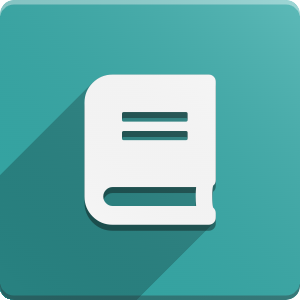
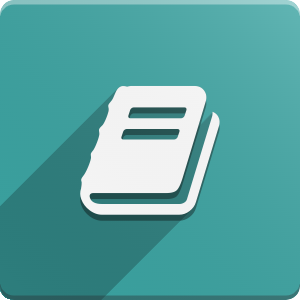
[IMP] knowledge: Improve and fix Home Page
change icon, add archive, last edited, highest_parent - by Fabio
fix moveTo access error
fix create_article access error

Changed region(s): [[0.0, 0.24, 0.75, 0.99]]

diff --git a/addons/knowledge/static/src/js/knowledge_controller.js b/addons/knowledge/static/src/js/knowledge_controller.js
@@ -9,7 +9,6 @@ var _t = core._t;
 
 const KnowledgeFormController = FormController.extend({
     events: Object.assign({}, FormController.prototype.events, {
-        'click .btn-delete': '_onDelete',
         'click .btn-duplicate': '_onDuplicate',
         'click .btn-create': '_onCreate',
         'click .btn-move': '_onMove',
@@ -39,10 +38,6 @@ const KnowledgeFormController = FormController.extend({
             return;
         }
         await this._rename(id, e.currentTarget.value);
-    },
-
-    _onDelete: async function () {
-        this._deleteRecords([this.handle]);
     },
 
     /**

diff --git a/addons/knowledge/models/knowledge_article.py b/addons/knowledge/models/knowledge_article.py
@@ -54,6 +54,7 @@ class Article(models.Model):
     _inherit = ['mail.thread', 'mail.activity.mixin']
     _order = "favourite_count, create_date desc"
 
+    active = fields.Boolean(default=True)
     name = fields.Char(string="Title", default="New Article")
     body = fields.Html(string="Article Body")
     icon = fields.Char(string='Article Icon', default='fa-file')
@@ -66,6 +67,8 @@ class Article(models.Model):
     # Set default=0 to avoid false values and messed up sequence order inside same parent
     sequence = fields.Integer(string="Article Sequence", default=0,
                               help="The sequence is computed only among the articles that have the same parent.")
+    main_article_id = fields.Many2one('knowledge.article', string="Subject", compute="_compute_main_article_id",
+                                        search="_search_main_article_id", recursive=True)
 
     # Access rules and members + implied category
     internal_permission = fields.Selection([
@@ -178,6 +181,11 @@ class Article(models.Model):
             else:
                 article.owner_id = False
 
+    @api.depends('parent_id')
+    def _compute_main_article_id(self):
+        for article in self:
+            article.main_article_id = article._get_highest_parent()
+
     def _search_user_has_access(self, operator, value):
         if operator not in ('=', '!=') or not isinstance(value, bool):
             raise ValueError("unsupported search operator")
@@ -275,6 +283,20 @@ class Article(models.Model):
             return [('favourite_user_ids', 'in', [self.env.user.id])]
         else:
             return [('favourite_user_ids', 'not in', [self.env.user.id])]
+
+    def _search_main_article_id(self, operator, value):
+        if isinstance(value, str):
+            value = self.search([('name', operator, value)]).ids
+            if not value:
+                return expression.FALSE_DOMAIN
+            operator = '='  # now we will search for articles that match the retrieved users.
+        elif operator not in ('=', '!='):
+            raise NotImplementedError()
+        articles = self
+        for article in self.search([('id', 'in' if operator == '=' else 'not in', value)]):
+            articles |= article._get_descendants()
+            articles |= article
+        return [('id', 'in', articles.ids)]
 
     @api.model
     def search(self, args, offset=0, limit=None, order=None, count=False):
@@ -406,24 +428,34 @@ class Article(models.Model):
         for article in self:
             article.is_locked = False
 
+    def action_archive(self):
+        return super(Article, self | self._get_descendants()).action_archive()
+
     #####################
     #  Business methods
     #####################
 
     def move_to(self, parent_id=False, before_article_id=False, private=False):
         self.ensure_one()
+        if not self.user_can_write:
+            raise AccessError(_('You are not allowed to move this article.'))
         parent = self.browse(parent_id) if parent_id else False
         if parent_id and not parent:
             raise UserError(_("The parent in which you want to move your article does not exist"))
+        elif parent and not parent.user_can_write:
+            raise AccessError(_('You are not allowed to move this article under this parent.'))
         before_article = self.browse(before_article_id) if before_article_id else False
         if before_article_id and not before_article:
             raise UserError(_("The article before which you want to move your article does not exist"))
+
+        # as base user doesn't have access to members, use sudo to allow access it.
+        article_sudo = self.sudo()
 
         if before_article:
             sequence = before_article.sequence
         else:
             # get max sequence among articles with the same parent
-            sequence = self._get_max_sequence_inside_parent(parent_id)
+            sequence = article_sudo._get_max_sequence_inside_parent(parent_id)
 
         values = {
             'parent_id': parent_id,
@@ -435,7 +467,7 @@ class Article(models.Model):
             values['internal_permission'] = 'none' if private else 'write'
 
         if not parent and private:  # If set private without parent, remove all members except current user.
-            self.article_member_ids.unlink()
+            article_sudo.article_member_ids.unlink()
             values.update({
                 'article_member_ids': [(0, 0, {
                     'partner_id': self.env.user.partner_id.id,
@@ -443,32 +475,34 @@ class Article(models.Model):
                 })]
             })
         elif parent:
-            values.update(self._get_access_values_from_parent(parent))
+            values.update(article_sudo._get_access_values_from_parent(parent))
 
-        self.write(values)
+        article_sudo.sudo().write(values)
 
-        if self.child_ids:
-            self._propagate_access_to_children()
+        if article_sudo.child_ids:
+            article_sudo._propagate_access_to_children()
 
         return True
 
     def article_create(self, title=False, parent_id=False, private=False):
-        Article = self.env['knowledge.article']
-        parent = Article.browse(parent_id) if parent_id else False
+        parent = self.browse(parent_id) if parent_id else False
         if parent_id and not parent:
             raise UserError(_("The parent in which you want to move your article does not exist"))
 
-        if parent and private:
-            if not parent.owner_id == self.env.user:
-                raise UserError(_("Cannot write under a non-owned private article"))
+        if parent:
+            if not parent.user_can_write:
+                raise AccessError(_("Cannot create an article under a parent article you can't write on"))
+            if private and not parent.owner_id == self.env.user:
+                raise AccessError(_("Cannot create an article under a non-owned private article"))
         values = {
             'internal_permission': 'none' if private else 'write',  # you cannot create an article without parent in shared directly.,
             'parent_id': parent_id,
             'sequence': self._get_max_sequence_inside_parent(parent_id)
         }
-        # User cannot write on members, sudo is needed to allow to create a private article.
-        if private and self.env.user.has_group('base.group_user'):
-            Article = Article.sudo()
+        # User cannot write on members, sudo is needed to allow to create a private article or create under a parent user can write on.
+        # for article without parent or not in private, access to members is not required to create an article
+        if (private or parent) and self.env.user.has_group('base.group_user'):
+            self = self.sudo()
         if not parent and private:
             # To be private, the article need at least one member with write access.
             values.update({
@@ -486,7 +520,7 @@ class Article(models.Model):
                 'body': title
             })
 
-        article = Article.create(values)
+        article = self.create(values)
 
         return article.id
 
@@ -632,6 +666,14 @@ class Article(models.Model):
             return self.parent_id._get_highest_parent()
         else:
             return self
+
+    def _get_descendants(self):
+        """ Returns the descendants recordset of the current article. """
+        descendants = self.env['knowledge.article']
+        for child in self.child_ids:
+            descendants |= child
+            descendants |= child._get_descendants()
+        return descendants
 
     def _resequence(self):
         """ This method re-order the children of the same parent (brotherhood) if needed.
